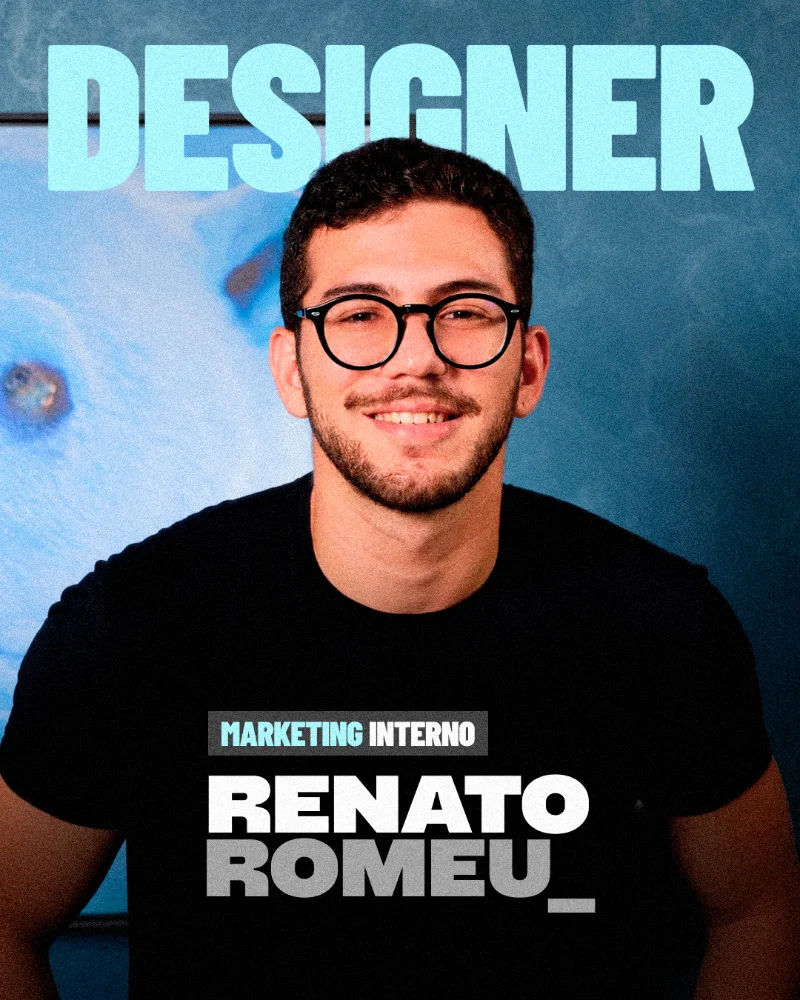
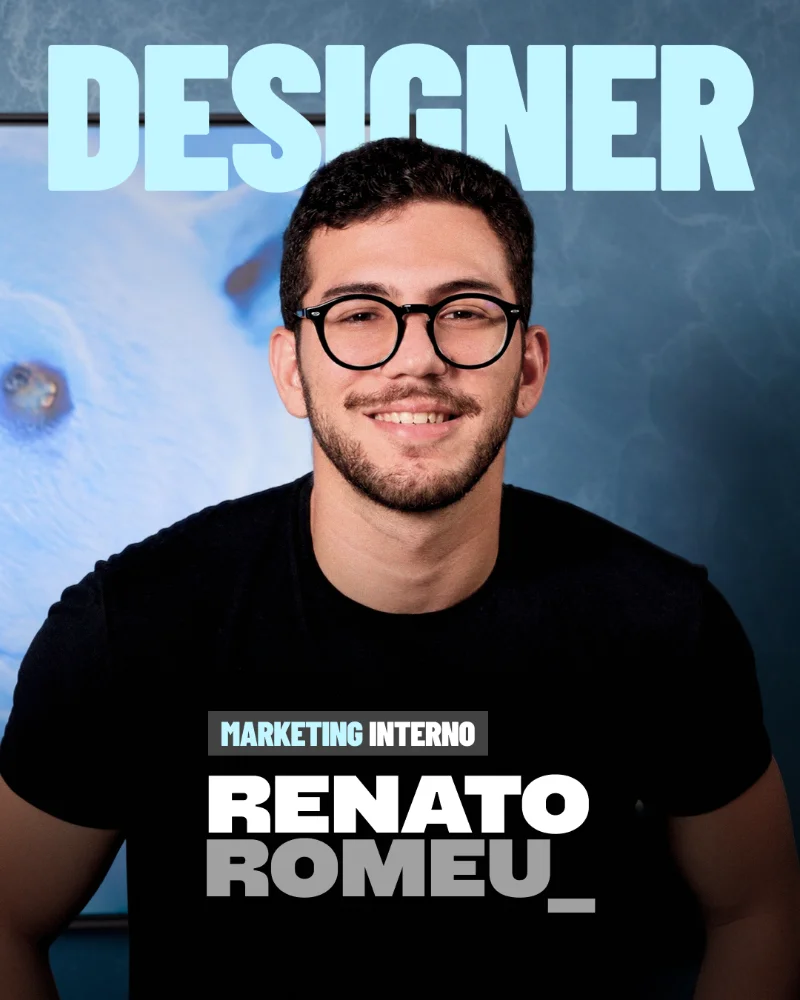
Hero mais escura no celular e novo card do Renato

diff --git a/script.js b/script.js
@@ -457,7 +457,7 @@ void main(){
   luz += CIANO * 0.45 * foco(q, CENTRO(0.37, 0.33, 2.7), 0.20 * esc);
   luz += AZUL  * 0.40 * foco(q, CENTRO(0.29, 0.41, 4.4), 0.18 * esc);
 
-  luz *= mix(0.8, 1.0, (esc - 0.5) * 2.0);
+  luz *= mix(0.5, 1.0, (esc - 0.5) * 2.0);  // celular mais escuro
 
   // vazio arredondado onde o cursor está: a luz “foge” dele
   luz *= 1.0 - 0.7 * forca * exp(-d2 / (0.51 * 0.51));
